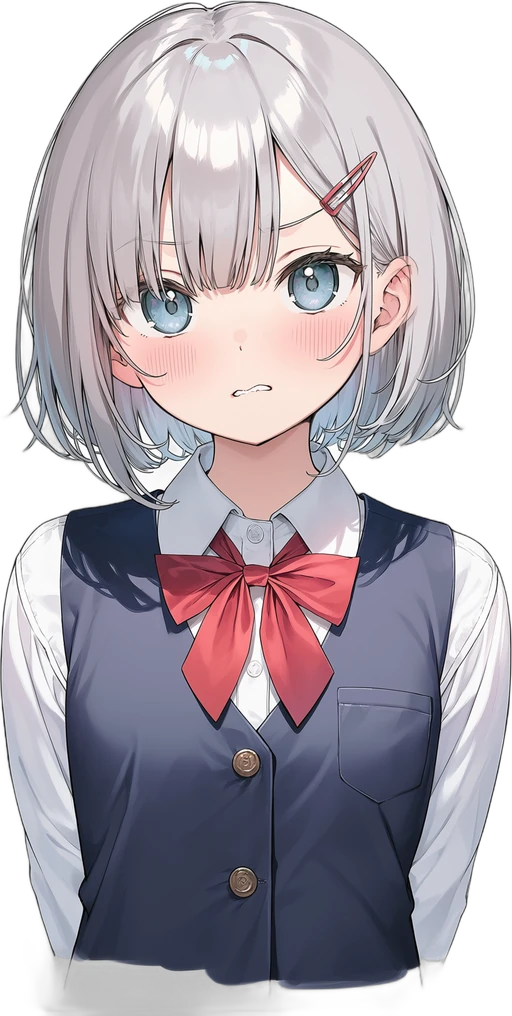
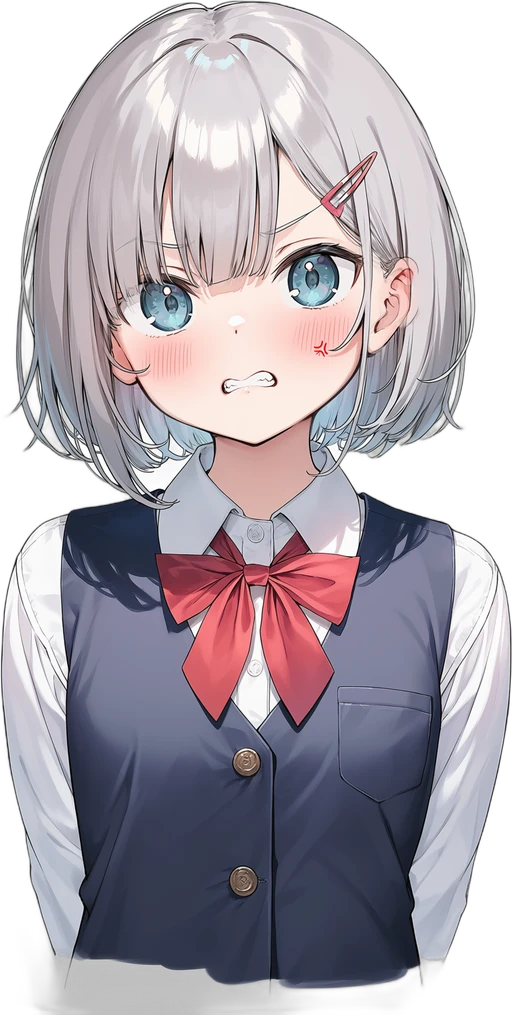
feat: 8表情の立ち絵を差し替える

diff --git a/client/src/gmExpression.ts b/client/src/gmExpression.ts
@@ -32,7 +32,7 @@ const EXPRESSION_IMAGE: Record<GmExpression, string> = {
   cry: 'cry',
   surprised: 'surprised',
   confused: 'confused',
-  smug: 'smile',
+  smug: 'smug',
 };
 
 export function gmImageFor(expression: GmExpression): string {
